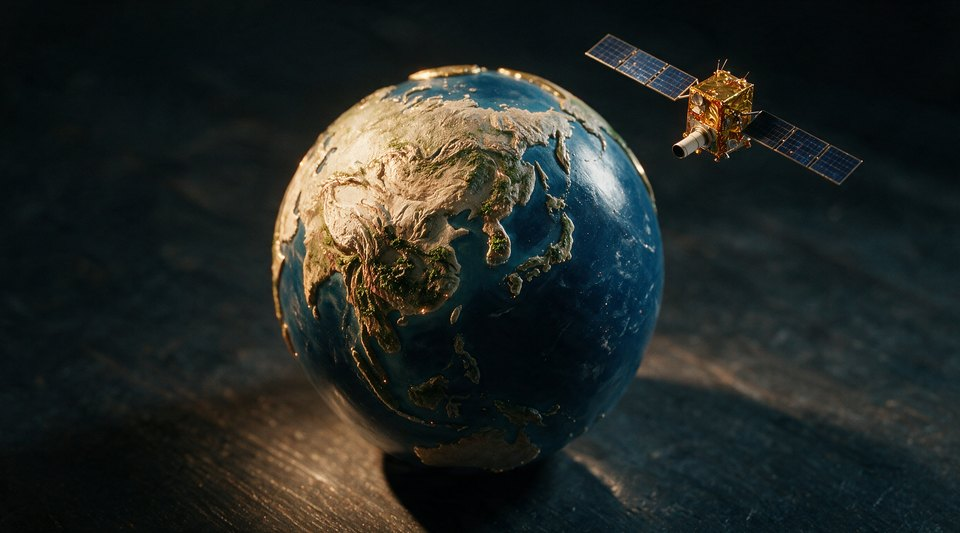
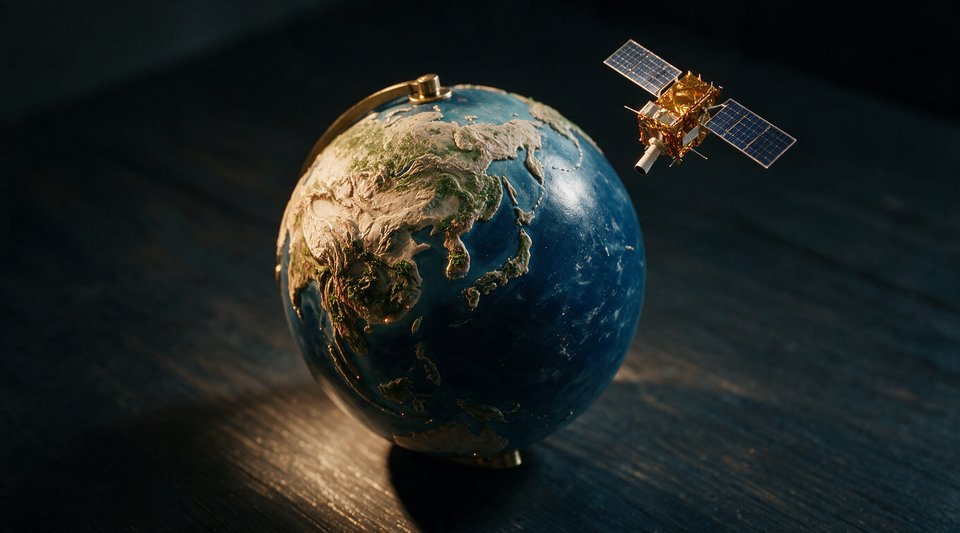
feat(kie): 앵커 rev.3j — A01 위성 축소 리롤, 회선 끊김 후 taskId 로 회수 (1장, 14 크레딧) — 채택 불가: 링 퇴행·축소 0.7배
- A01 rev.3j: 위성 ~28 %→~20 % (절반 아님), 배럴 좌하 기울기, 황동 극관+반원 암 되돌아옴 → 판정 ✗, 기준은 A01.v3i 권고
- pending 원장 줄로 recordInfo 회수, 신규 태스크 0 (9174.5 → 9160.5)
- anchors-v3.json 의 잘못 들어간 빈 rules 키 제거
- 시트 v3i|v3j, review 960w A01-new/A01-v3i, 문서 §15

Claude-Session: https://claude.ai/code/session_01WM9MJXSpdbCfwY8af3obk9

diff --git a/landxi/proto/film/anchors.html b/landxi/proto/film/anchors.html
@@ -1,4 +1,4 @@
 <!doctype html><html lang="ko"><head><meta charset="utf-8"><title>앵커 스틸 v3</title>
 <link rel="stylesheet" href="../fonts-system.css"><style>body{margin:0;background:#010102;color:#ccc;font:14px/1.5 Pretendard,system-ui,sans-serif}h1{font-family:Paperlogy,Pretendard,sans-serif;font-weight:700;font-size:18px;letter-spacing:.06em;padding:20px 24px;margin:0;border-bottom:1px solid #272727}
 .g{display:grid;grid-template-columns:repeat(auto-fill,minmax(440px,1fr));gap:24px;padding:24px}figure{margin:0}img{width:100%;display:block;border:1px solid #272727}figcaption{padding:8px 2px;font-size:14px;color:#8a8a8a;letter-spacing:.04em}</style></head>
-<body><h1>앵커 스틸 · 14장</h1><div class="g"><figure><img src="../../assets/proto/film/legs/anchors-v3/A01.jpg" loading="lazy"><figcaption>A01 모형 지구본 — 링·암 제거, 우상 전경에 국토위성(CAS500-1)형 모형: 금박 버스 + 청색 태양전지 날개 2 + 흰 망원경 배럴, 한반도 정면 (rev.3i, 1회 리롤 · 클라이언트 검토용)</figcaption></figure><figure><img src="../../assets/proto/film/legs/anchors-v3/A02.jpg" loading="lazy"><figcaption>A02 고궤도·한반도 — 지구본 + 구름만, 항공기 없음 (rev.3)</figcaption></figure><figure><img src="../../assets/proto/film/legs/anchors-v3/A03.jpg" loading="lazy"><figcaption>A03 구름 천장 — 드론 하단 1/3 공중 부양·소, 항공기 우상단 (rev.3c, 1회 재생성)</figcaption></figure><figure><img src="../../assets/proto/film/legs/anchors-v3/A04.jpg" loading="lazy"><figcaption>A04 능선 너머 남원 분지 — 소품 0 (rev.3)</figcaption></figure><figure><img src="../../assets/proto/film/legs/anchors-v3/A05.jpg" loading="lazy"><figcaption>A05 남원 평야·농지이용 — 프롭 0, 회색 판 제거 (rev.3d, 1회 리롤 · 좌측 도로 환각)</figcaption></figure><figure><img src="../../assets/proto/film/legs/anchors-v3/A06.jpg" loading="lazy"><figcaption>A06 금지면 비닐하우스 — 프롭 0, 구름·좌측 구조물 제거 (rev.3e, 1회 리롤)</figcaption></figure><figure><img src="../../assets/proto/film/legs/anchors-v3/A06b.jpg" loading="lazy"><figcaption>A06b 남원 상공 고고도 — 같은 온실 군락이 중앙-좌에 그대로, 카메라만 상승·곡률·헤이즈 (rev.3f, 1회 리롤)</figcaption></figure><figure><img src="../../assets/proto/film/legs/anchors-v3/A07.jpg" loading="lazy"><figcaption>A07 지구본 이동→여수 — 농지가 해안까지 완만히 내려와 마을과 같은 높이, 고원·절벽 없음 (rev.3e, 1회 리롤)</figcaption></figure><figure><img src="../../assets/proto/film/legs/anchors-v3/A08.jpg" loading="lazy"><figcaption>A08 여수 국동항·해양쓰레기 — 방파제 발치 해안선 클로즈업, 조간대 스티로폼·부표·그물 다량 (rev.3f, 1회 리롤)</figcaption></figure><figure><img src="../../assets/proto/film/legs/anchors-v3/A08b.jpg" loading="lazy"><figcaption>A08b 여수 상공 고고도 — 방파제·항만이 좌하 멀리, 코발트 바다 하단 절반, 곡률·헤이즈, 북동 원경에 영남 능선 시작 (rev.3g, 신규 1회)</figcaption></figure><figure><img src="../../assets/proto/film/legs/anchors-v3/A09.jpg" loading="lazy"><figcaption>A09 지구본 이동→울주 — A08b 와 같은 지형을 북동 이동·하강해 본 것, 같은 해안선 좌하로, 이끼 능선·펠트 필지가 프레임 채움, 급경사지 절개면, 마을·항만 없음 (rev.3h, 1회 리롤)</figcaption></figure><figure><img src="../../assets/proto/film/legs/anchors-v3/A10.jpg" loading="lazy"><figcaption>A10 산림식생·급경사지</figcaption></figure><figure><img src="../../assets/proto/film/legs/anchors-v3/A11.jpg" loading="lazy"><figcaption>A11 불법소각 — 산자락 소면적 공터, 연소 중</figcaption></figure><figure><img src="../../assets/proto/film/legs/anchors-v3/A12.jpg" loading="lazy"><figcaption>A12 국토 변화(데이터 관점) — 황동 격자·측정 셀 점등, 링·위성 복귀</figcaption></figure></div></body></html>
+<body><h1>앵커 스틸 · 14장</h1><div class="g"><figure><img src="../../assets/proto/film/legs/anchors-v3/A01.jpg" loading="lazy"><figcaption>A01 모형 지구본 — 링·암 제거, 우상 전경에 국토위성(CAS500-1)형 모형: 금박 버스 + 청색 태양전지 날개 2 + 흰 망원경 배럴, 한반도 상공 소형(프레임 폭 ~8 %) 정하방 조준 (rev.3j, 1회 리롤 · 클라이언트 검토용)</figcaption></figure><figure><img src="../../assets/proto/film/legs/anchors-v3/A02.jpg" loading="lazy"><figcaption>A02 고궤도·한반도 — 지구본 + 구름만, 항공기 없음 (rev.3)</figcaption></figure><figure><img src="../../assets/proto/film/legs/anchors-v3/A03.jpg" loading="lazy"><figcaption>A03 구름 천장 — 드론 하단 1/3 공중 부양·소, 항공기 우상단 (rev.3c, 1회 재생성)</figcaption></figure><figure><img src="../../assets/proto/film/legs/anchors-v3/A04.jpg" loading="lazy"><figcaption>A04 능선 너머 남원 분지 — 소품 0 (rev.3)</figcaption></figure><figure><img src="../../assets/proto/film/legs/anchors-v3/A05.jpg" loading="lazy"><figcaption>A05 남원 평야·농지이용 — 프롭 0, 회색 판 제거 (rev.3d, 1회 리롤 · 좌측 도로 환각)</figcaption></figure><figure><img src="../../assets/proto/film/legs/anchors-v3/A06.jpg" loading="lazy"><figcaption>A06 금지면 비닐하우스 — 프롭 0, 구름·좌측 구조물 제거 (rev.3e, 1회 리롤)</figcaption></figure><figure><img src="../../assets/proto/film/legs/anchors-v3/A06b.jpg" loading="lazy"><figcaption>A06b 남원 상공 고고도 — 같은 온실 군락이 중앙-좌에 그대로, 카메라만 상승·곡률·헤이즈 (rev.3f, 1회 리롤)</figcaption></figure><figure><img src="../../assets/proto/film/legs/anchors-v3/A07.jpg" loading="lazy"><figcaption>A07 지구본 이동→여수 — 농지가 해안까지 완만히 내려와 마을과 같은 높이, 고원·절벽 없음 (rev.3e, 1회 리롤)</figcaption></figure><figure><img src="../../assets/proto/film/legs/anchors-v3/A08.jpg" loading="lazy"><figcaption>A08 여수 국동항·해양쓰레기 — 방파제 발치 해안선 클로즈업, 조간대 스티로폼·부표·그물 다량 (rev.3f, 1회 리롤)</figcaption></figure><figure><img src="../../assets/proto/film/legs/anchors-v3/A08b.jpg" loading="lazy"><figcaption>A08b 여수 상공 고고도 — 방파제·항만이 좌하 멀리, 코발트 바다 하단 절반, 곡률·헤이즈, 북동 원경에 영남 능선 시작 (rev.3g, 신규 1회)</figcaption></figure><figure><img src="../../assets/proto/film/legs/anchors-v3/A09.jpg" loading="lazy"><figcaption>A09 지구본 이동→울주 — A08b 와 같은 지형을 북동 이동·하강해 본 것, 같은 해안선 좌하로, 이끼 능선·펠트 필지가 프레임 채움, 급경사지 절개면, 마을·항만 없음 (rev.3h, 1회 리롤)</figcaption></figure><figure><img src="../../assets/proto/film/legs/anchors-v3/A10.jpg" loading="lazy"><figcaption>A10 산림식생·급경사지</figcaption></figure><figure><img src="../../assets/proto/film/legs/anchors-v3/A11.jpg" loading="lazy"><figcaption>A11 불법소각 — 산자락 소면적 공터, 연소 중</figcaption></figure><figure><img src="../../assets/proto/film/legs/anchors-v3/A12.jpg" loading="lazy"><figcaption>A12 국토 변화(데이터 관점) — 황동 격자·측정 셀 점등, 링·위성 복귀</figcaption></figure></div></body></html>

diff --git a/docs/superpowers/proto/2026-08-26-anchors-v3.md b/docs/superpowers/proto/2026-08-26-anchors-v3.md
@@ -1083,3 +1083,41 @@ A06b 는 손대지 않았다 (구름·구조물 없음, 구 A06 에서 파생됐
 
 - 클라이언트 OK → A02(상단 호 대신 같은 위성이 한반도 상공에 더 크게)·A12(링 복귀 문구 삭제, 위성 복귀) 리롤 각 1회, leg 1/2/11 모션 프롬프트에서 링 문구 제거, leg 1·2·11 영상 재생성.
 - A05 좌측 도로(§9-3) 는 여전히 미결.
+
+## 15. 실행 기록 — 2026-08-27 rev.3j A01 리롤 — 위성 1/2 축소 (스틸 1장, 영상 0)
+
+클라이언트(verbatim): **"위성은 한 2배 축소해야될 거 같다."** → A01 한 장만 다시. 위성 문장만 교체(프레임 폭 ~8 %, 지구본 지름 ≈ 날개폭 6배, 한반도 상공 우상, 배럴 정하방), negative += large satellite, oversized spacecraft, close-up spacecraft. preamble·지구본·워크벤치 문장 verbatim. 규칙 동일 — 스틸 정확히 1회, 재시도 0, 상한 20, 영상 0.
+
+### 15-1. 변경 (`tools/kie/anchors-v3.json`)
+
+| 항목 | 내용 |
+|---|---|
+| A01 still_prompt | 위성 문장만: "spans only about eight percent of the frame width, tiny compared to the globe (the globe diameter is about six times the satellite wingspan)", "positioned upper-right above the Korean peninsula", "telescope barrel on its underside pointing straight down at Korea". |
+| A01 negative | += large satellite, oversized spacecraft, close-up spacecraft |
+| A01 ref | rev.3i 와 동일 `shots/kie/A01-v3a-noring-crop.jpg` (링 0 크롭). |
+| 백업 | rev.3i A01 → `A01.v3i.png/.jpg` (`A01.v3a.*` 도 유지). |
+
+### 15-2. 크레딧 (상한 20, `ANCHORS_V3_CAP=20`, 세션 `rev3j-2026-08-27`, 이전 원장 `anchors-v3-credits.rev3i.json`)
+
+| 앵커 | 잔액 전 → 후 | 과금 | ref | taskId | 비고 |
+|---|---|---:|---|---|---|
+| A01 (리롤) | 9174.5 → 9160.5 | **14.0** | A01-v3a-noring-crop | ca1b866b… | createTask 직후 폴링 중 회선 끊김(`fetch failed`). 원장의 pending 줄(taskId)로 **recordInfo 회수** — 새 태스크 0, 추가 과금 0. |
+
+호출 1회, 재시도 0. 2026-08-27 도입한 "폴링 전 pending 기록"이 처음으로 실제 회수에 쓰였다. 잔액 **9160.5**.
+
+### 15-3. 판정 (`shots/kie/anchors-v3j-sheet.jpg` — A01 rev.3i | A01 rev.3j; 960w 사본 `landxi/assets/proto/review/A01-v3i.jpg`, `A01-new.jpg`)
+
+| 항목 | 판정 | 근거 |
+|---|:-:|---|
+| 위성 축소(목표 1/2) | **△** | 날개 끝-끝 폭 프레임 대비 rev.3i ≈ 28 % → rev.3j ≈ 20 % (원본 2736px 에서 ≈ 780 → 550 px). **약 0.7배**, 절반이 아니고 요청 8 % 에는 한참 못 미친다. 모델이 "eight percent / six times" 숫자를 약하게만 따른다. |
+| 배럴이 한반도를 향하는가 | **△** | 흰 배럴이 좌하로 지구본을 향해 기울어 rev.3i(구 상단 림 쪽)보다는 낫지만, 위성이 여전히 지구본 **우측 바깥**(일본 열도 동쪽)에 떠 있어 한반도 정상공·정하방이 아니다. |
+| 링 부재 | **✗ 퇴행** | **황동 극관 + 황동 반원 암(meridian arm)** 이 지구본 상단에서 좌측 림을 따라 내려온다. rev.3i 에서는 가는 림 하이라이트뿐이었는데 여기서는 명확한 부품. 하단 접지부에도 황동 테(base ring) 가 보인다. 원인 추정: prompt 의 "pole caps are milled brass" + negative 의 "ring/armature" 가 "brass cap" 형태로 우회됨. 클라이언트 지시("고리 없앰")에 정면으로 어긋난다. |
+| 재질·구도 연속성 | **○** | 같은 지구본(석고·이끼·코발트 레진·목재 하이라이트·좌상 키), 한반도 정면 같은 회전, 워크벤치 동일. 위성도 같은 디자인(금박 버스·청색 3셀 날개 2·흰 배럴). A02 씸 성립. |
+
+**총평: 채택 불가.** 크기는 절반에 못 미치고, 무엇보다 링이 되돌아왔다. 현 A01.png 는 rev.3j 이지만 클라이언트에 보이는 기준은 rev.3i(`A01.v3i.*`) 로 되돌리는 것을 권한다.
+
+### 15-4. 다음 (다음 1회 리롤 전 프롬프트 수정안, 아직 미적용)
+
+- "Its pole caps are milled brass" 삭제 → "its poles are bare plaster like the rest". negative += brass cap, pole cap, brass rim, gilded edge, base ring, brass foot, half ring, semicircle arm.
+- 크기: 숫자 대신 비교로 — "the satellite is no larger than the Korean peninsula itself on the globe; it would fit inside the Yellow Sea". 위치: "directly above the peninsula, between the top of the globe and the top edge of the frame, not beside the globe".
+- 또는 크기·위치는 합성으로 해결: rev.3i 위성만 잘라 50 % 축소 → 링 없는 지구본(rev.3i 배경) 위 한반도 상공에 얹기. 크레딧 0.
